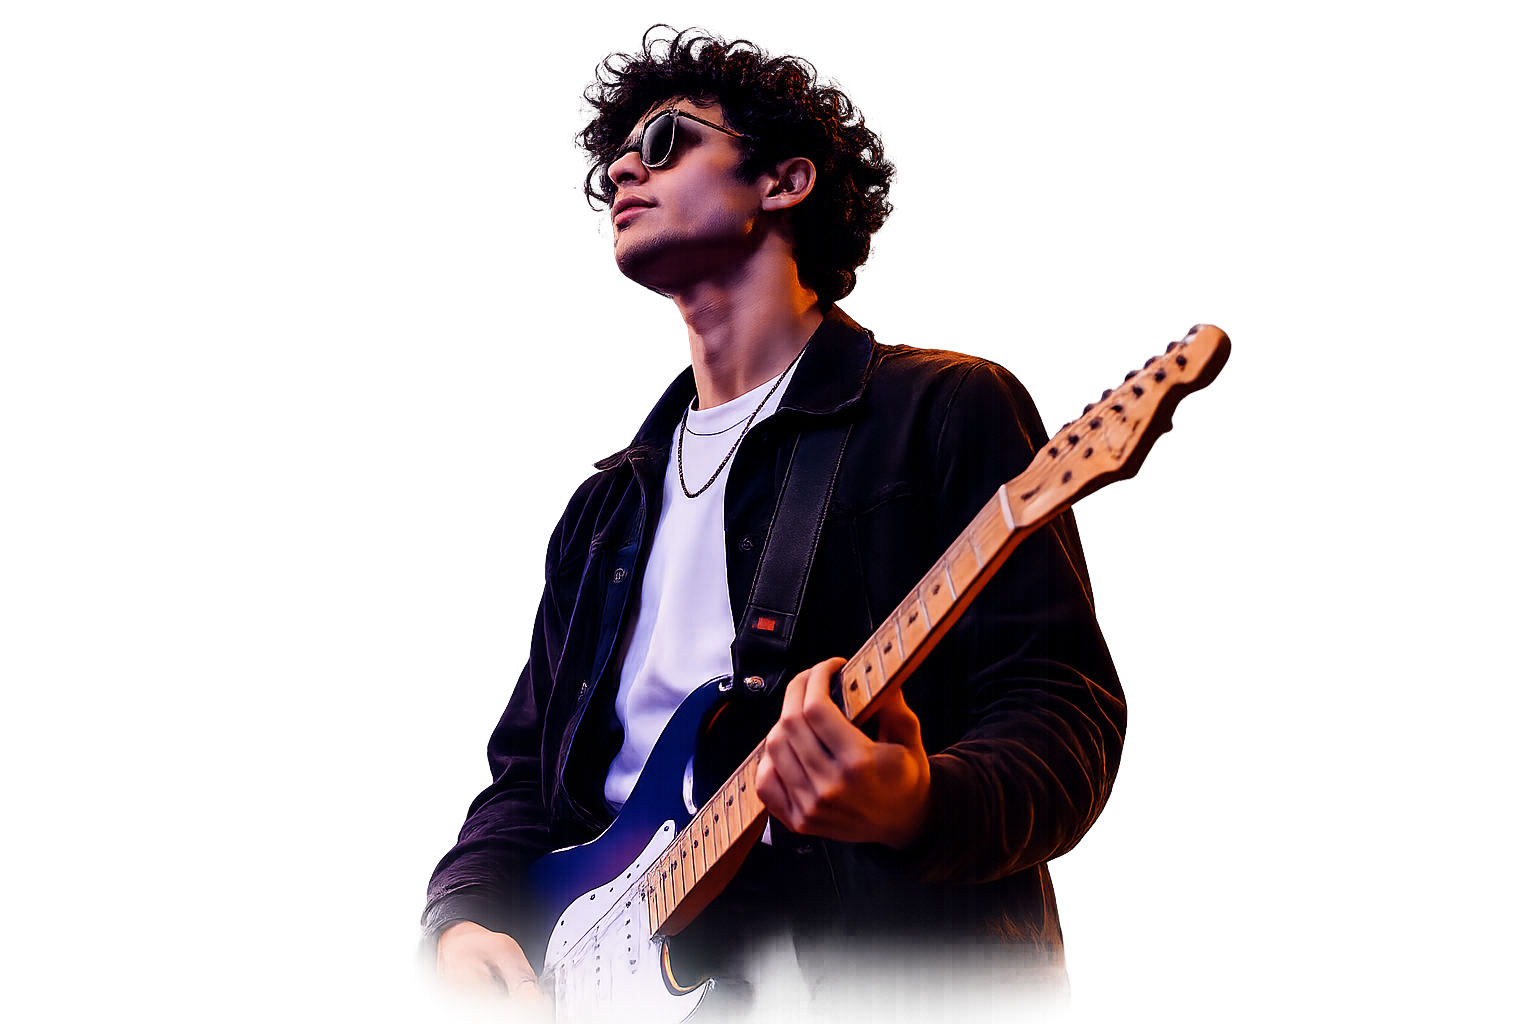
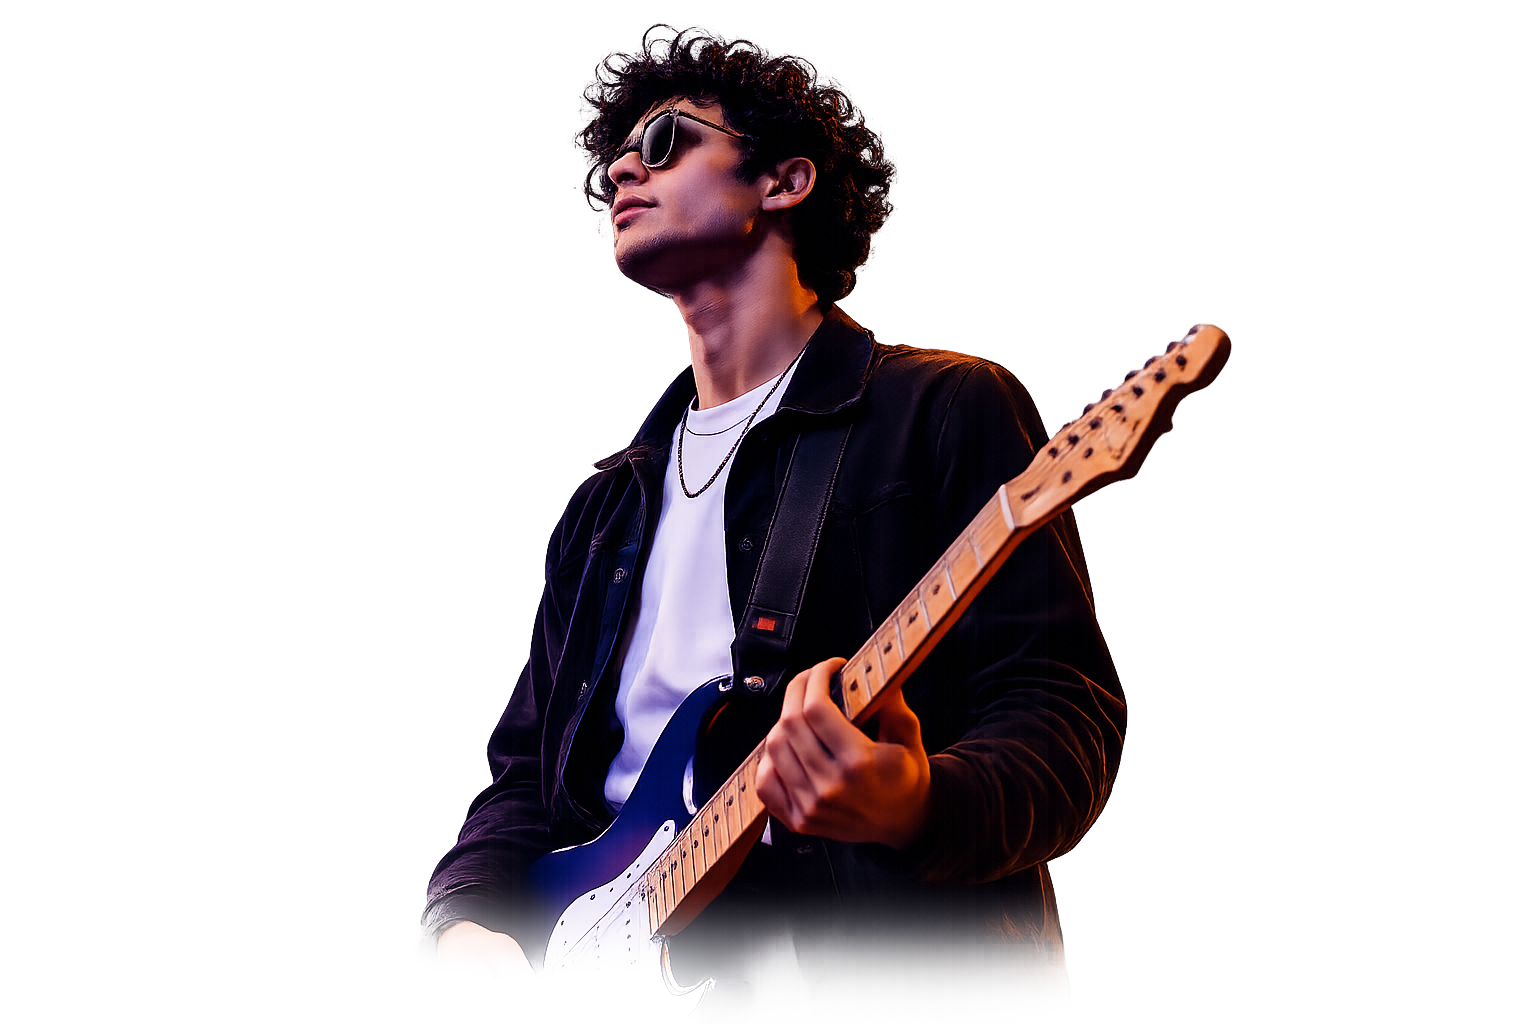
fix(home): polish hero artwork blend, badge, and mobile scale
Soften the guitarist bottom fade into the purple disc, restyle the hero badge as a readable pill, and enlarge the mobile hero image responsively.

Changed region(s): [[0.25, 0.875, 0.7188, 1.0]]

diff --git a/src/config/homeHeroStyles.js b/src/config/homeHeroStyles.js
@@ -27,11 +27,20 @@ export const homeHeroStyles = {
       'lg:items-start lg:text-left',
       'gap-0',
     ].join(' '),
-    mobileImage: 'relative z-0 w-full flex justify-center my-3 sm:my-4 lg:hidden pointer-events-none',
-    badge:
-      'inline-flex items-center gap-2 text-[0.7rem] sm:text-xs font-bold tracking-[0.18em] uppercase text-ink-secondary dark:text-theme-body',
+    mobileImage:
+      'relative z-0 w-full flex justify-center my-4 sm:my-5 lg:hidden pointer-events-none px-1',
+    badge: [
+      'inline-flex items-center justify-center gap-1.5 sm:gap-2',
+      'max-w-full rounded-full',
+      'px-3 py-1.5 sm:px-3.5 sm:py-1.5',
+      'bg-accent-100/90 dark:bg-accent-500/15',
+      'text-[0.68rem] xs:text-[0.72rem] sm:text-[0.8125rem]',
+      'font-semibold leading-snug tracking-wide sm:tracking-[0.04em]',
+      'text-accent-700 dark:text-accent-300',
+      'text-balance text-center lg:text-left',
+    ].join(' '),
     badgeInteractive:
-      'transition-colors duration-300 hover:text-ink-primary dark:hover:text-theme-heading',
+      'transition-colors duration-300 hover:bg-accent-100 dark:hover:bg-accent-500/25',
     badgeIcon: 'text-accent-500 dark:text-accent-400 shrink-0',
     heading: [
       'mt-3 sm:mt-4 font-heading font-black tracking-tight',
@@ -121,8 +130,8 @@ export const homeHeroStyles = {
     ].join(' '),
     stage: [
       'relative w-full mx-auto overflow-visible',
-      'max-w-[340px] sm:max-w-[380px]',
-      'lg:max-w-[480px] xl:max-w-[520px]',
+      'max-w-[min(100%,400px)] xs:max-w-[420px] sm:max-w-[440px]',
+      'md:max-w-[460px] lg:max-w-[500px] xl:max-w-[540px]',
       'aspect-square',
     ].join(' '),
     glow: [
@@ -184,16 +193,17 @@ export const homeHeroStyles = {
     figure: [
       'absolute inset-0 z-10',
       'flex items-center justify-center',
-      'scale-[1.05] sm:scale-[1.1] lg:scale-[1.22] xl:scale-[1.28]',
+      'scale-[1.18] xs:scale-[1.2] sm:scale-[1.16] md:scale-[1.18]',
+      'lg:scale-[1.22] xl:scale-[1.28]',
     ].join(' '),
     img: [
       'block h-full w-auto max-h-[100%]',
       'object-contain object-center select-none',
       'drop-shadow-[0_20px_40px_rgba(79,70,229,0.18)]',
       'dark:drop-shadow-[0_20px_44px_rgba(0,0,0,0.45)]',
-      'ring-1 ring-violet-200/30 dark:ring-violet-400/15 rounded-2xl',
-      '[mask-image:linear-gradient(to_bottom,black_78%,transparent_100%)]',
-      '[-webkit-mask-image:linear-gradient(to_bottom,black_78%,transparent_100%)]',
+      // Soft feather into purple disc — face/neck stay sharp; lower hand/guitar dissolve
+      '[mask-image:linear-gradient(to_bottom,black_0%,black_74%,rgba(0,0,0,0.92)_82%,rgba(0,0,0,0.55)_90%,rgba(0,0,0,0.18)_96%,transparent_100%)]',
+      '[-webkit-mask-image:linear-gradient(to_bottom,black_0%,black_74%,rgba(0,0,0,0.92)_82%,rgba(0,0,0,0.55)_90%,rgba(0,0,0,0.18)_96%,transparent_100%)]',
     ].join(' '),
   },
 

diff --git a/src/components/sections/home/HomeHero/HeroContent.jsx b/src/components/sections/home/HomeHero/HeroContent.jsx
@@ -28,14 +28,17 @@ function HeroContent({ badge, heading, description, buttons, features, image }) 
         <motion.div
           variants={itemVariants}
           className={[content.badge, content.badgeInteractive].filter(Boolean).join(' ')}
+          role="status"
         >
-          <BadgeIcon
-            size={14}
-            className={content.badgeIcon}
-            fill="currentColor"
-            aria-hidden="true"
-          />
-          <span>{badge.label}</span>
+          {BadgeIcon ? (
+            <BadgeIcon
+              size={14}
+              strokeWidth={2.25}
+              className={content.badgeIcon}
+              aria-hidden="true"
+            />
+          ) : null}
+          <span className="min-w-0">{badge.label}</span>
         </motion.div>
       ) : null}
 
